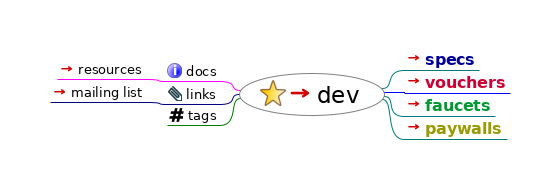
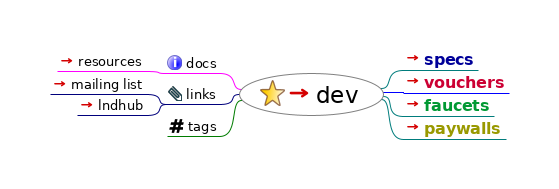
add lndhub

diff --git a/dev/index.html b/dev/index.html
@@ -23,17 +23,18 @@
                    };
                };
           
-          --></script></head><body><h1>dev</h1><div style="width:96%;  padding:2%;  margin-bottom:10px;  border: 0px;  text-align:center;  vertical-align:center;"><img src="index.html_files/image.png" style="margin-bottom:10px; &#9;border: 0px; &#9;text-align:center; &#9;vertical-align:center;" alt="Imagemap" usemap="#fm_imagemap" /></div><map name="fm_imagemap" id="fm_imagemap"><area shape="rect" href="../index.html" alt="dev" title="dev" coords="239,73,385,116" />
-<area shape="rect" href="#FMID_1100215200FM" alt="docs" title="docs" coords="165,63,220,81" />
-<area shape="rect" href="https://github.com/bcongdon/awesome-lightning-network#developer-resources" alt="resources" title="resources" coords="57,61,146,79" />
+          --></script></head><body><h1>dev</h1><div style="width:96%;  padding:2%;  margin-bottom:10px;  border: 0px;  text-align:center;  vertical-align:center;"><img src="index.html_files/image.png" style="margin-bottom:10px; &#9;border: 0px; &#9;text-align:center; &#9;vertical-align:center;" alt="Imagemap" usemap="#fm_imagemap" /></div><map name="fm_imagemap" id="fm_imagemap"><area shape="rect" href="../index.html" alt="dev" title="dev" coords="239,73,384,116" />
+<area shape="rect" href="#FMID_1100215200FM" alt="docs" title="docs" coords="165,55,220,73" />
+<area shape="rect" href="https://github.com/bcongdon/awesome-lightning-network#developer-resources" alt="resources" title="resources" coords="57,53,146,71" />
 <area shape="rect" href="#FMID_808607355FM" alt="links" title="links" coords="166,86,220,104" />
-<area shape="rect" href="https://lists.linuxfoundation.org/pipermail/lightning-dev/" alt="mailing list" title="mailing list" coords="50,84,147,102" />
-<area shape="rect" href="#FMID_466759422FM" alt="tags" title="tags" coords="167,107,220,125" />
-<area shape="rect" href="../spec/index.html" alt="specs" title="specs" coords="404,50,479,70" />
-<area shape="rect" href="vouchers.html" alt="vouchers" title="vouchers" coords="404,73,510,93" />
-<area shape="rect" href="faucets.html" alt="faucets" title="faucets" coords="404,96,495,116" />
-<area shape="rect" href="paywalls.html" alt="paywalls" title="paywalls" coords="404,119,507,139" />
+<area shape="rect" href="https://lists.linuxfoundation.org/pipermail/lightning-dev/" alt="mailing list" title="mailing list" coords="50,76,147,94" />
+<area shape="rect" href="http://lndhub.io" alt="lndhub" title="lndhub" coords="77,97,147,115" />
+<area shape="rect" href="#FMID_466759422FM" alt="tags" title="tags" coords="167,118,220,136" />
+<area shape="rect" href="../spec/index.html" alt="specs" title="specs" coords="403,50,478,70" />
+<area shape="rect" href="vouchers.html" alt="vouchers" title="vouchers" coords="403,73,509,93" />
+<area shape="rect" href="faucets.html" alt="faucets" title="faucets" coords="403,96,494,116" />
+<area shape="rect" href="paywalls.html" alt="paywalls" title="paywalls" coords="403,119,506,139" />
 </map>
 
-<div class="node"><img src="index.html_files/hide.png" class="hideshow" alt="hide" onClick="toggle(&quot;N65543&quot;)" id="imgN65543" /><img src="index.html_files/icons/bookmark.svg" alt="bookmark" /> <a id="FMID_1831615648FM" /><div class="nodecontent" style="color:#000000;font-size:150%;"><a href="../index.html">dev</a> <a href="../index.html"><img src="index.html_files/ilink.png" alt="User Link" style="border-width:0" /></a></div><div class="content" id="N65543"><div class="node"><img src="index.html_files/hide.png" class="hideshow" alt="hide" onClick="toggle(&quot;N66445&quot;)" id="imgN66445" /><img src="index.html_files/icons/info.svg" alt="info" /> <a id="FMID_1100215200FM" /><div class="nodecontent" style="color:#000000;font-size:83%;">docs</div><div class="content" id="N66445"><div class="node"><img src="index.html_files/leaf.png" class="hideshow" alt="leaf" /><a id="FMID_1911540836FM" /><div class="nodecontent" style="color:#000000;font-size:83%;"><a href="https://github.com/bcongdon/awesome-lightning-network#developer-resources">resources</a> <a href="https://github.com/bcongdon/awesome-lightning-network#developer-resources"><img src="index.html_files/ilink.png" alt="User Link" style="border-width:0" /></a></div></div></div></div><div class="node"><img src="index.html_files/hide.png" class="hideshow" alt="hide" onClick="toggle(&quot;N66524&quot;)" id="imgN66524" /><img src="index.html_files/icons/attach.svg" alt="attach" /> <a id="FMID_808607355FM" /><div class="nodecontent" style="color:#000000;font-size:83%;">links</div><div class="content" id="N66524"><div class="node"><img src="index.html_files/leaf.png" class="hideshow" alt="leaf" /><a id="FMID_307649319FM" /><div class="nodecontent" style="color:#000000;font-size:83%;"><a href="https://lists.linuxfoundation.org/pipermail/lightning-dev/">mailing list</a> <a href="https://lists.linuxfoundation.org/pipermail/lightning-dev/"><img src="index.html_files/ilink.png" alt="User Link" style="border-width:0" /></a></div></div></div></div><div class="node"><img src="index.html_files/leaf.png" class="hideshow" alt="leaf" /><img src="index.html_files/icons/hashtag.png" alt="hashtag" /> <a id="FMID_466759422FM" /><div class="nodecontent" style="color:#000000;font-size:83%;">tags</div></div><div class="node"><img src="index.html_files/leaf.png" class="hideshow" alt="leaf" /><a id="FMID_1858353829FM" /><div class="nodecontent" style="color:#000099;font-size:100%;font-weight:bold;"><a href="../spec/index.html">specs</a> <a href="../spec/index.html"><img src="index.html_files/ilink.png" alt="User Link" style="border-width:0" /></a></div></div><div class="node"><img src="index.html_files/leaf.png" class="hideshow" alt="leaf" /><a id="FMID_1943871369FM" /><div class="nodecontent" style="color:#cc0033;font-size:100%;font-weight:bold;"><a href="vouchers.html">vouchers</a> <a href="vouchers.html"><img src="index.html_files/ilink.png" alt="User Link" style="border-width:0" /></a></div></div><div class="node"><img src="index.html_files/leaf.png" class="hideshow" alt="leaf" /><a id="FMID_595852838FM" /><div class="nodecontent" style="color:#009933;font-size:100%;font-weight:bold;"><a href="faucets.html">faucets</a> <a href="faucets.html"><img src="index.html_files/ilink.png" alt="User Link" style="border-width:0" /></a></div></div><div class="node"><img src="index.html_files/leaf.png" class="hideshow" alt="leaf" /><a id="FMID_63598061FM" /><div class="nodecontent" style="color:#999900;font-size:100%;font-weight:bold;"><a href="paywalls.html">paywalls</a> <a href="paywalls.html"><img src="index.html_files/ilink.png" alt="User Link" style="border-width:0" /></a></div></div></div></div>
+<div class="node"><img src="index.html_files/hide.png" class="hideshow" alt="hide" onClick="toggle(&quot;N65543&quot;)" id="imgN65543" /><img src="index.html_files/icons/bookmark.svg" alt="bookmark" /> <a id="FMID_1831615648FM" /><div class="nodecontent" style="color:#000000;font-size:150%;"><a href="../index.html">dev</a> <a href="../index.html"><img src="index.html_files/ilink.png" alt="User Link" style="border-width:0" /></a></div><div class="content" id="N65543"><div class="node"><img src="index.html_files/hide.png" class="hideshow" alt="hide" onClick="toggle(&quot;N66445&quot;)" id="imgN66445" /><img src="index.html_files/icons/info.svg" alt="info" /> <a id="FMID_1100215200FM" /><div class="nodecontent" style="color:#000000;font-size:83%;">docs</div><div class="content" id="N66445"><div class="node"><img src="index.html_files/leaf.png" class="hideshow" alt="leaf" /><a id="FMID_1911540836FM" /><div class="nodecontent" style="color:#000000;font-size:83%;"><a href="https://github.com/bcongdon/awesome-lightning-network#developer-resources">resources</a> <a href="https://github.com/bcongdon/awesome-lightning-network#developer-resources"><img src="index.html_files/ilink.png" alt="User Link" style="border-width:0" /></a></div></div></div></div><div class="node"><img src="index.html_files/hide.png" class="hideshow" alt="hide" onClick="toggle(&quot;N66524&quot;)" id="imgN66524" /><img src="index.html_files/icons/attach.svg" alt="attach" /> <a id="FMID_808607355FM" /><div class="nodecontent" style="color:#000000;font-size:83%;">links</div><div class="content" id="N66524"><div class="node"><img src="index.html_files/leaf.png" class="hideshow" alt="leaf" /><a id="FMID_307649319FM" /><div class="nodecontent" style="color:#000000;font-size:83%;"><a href="https://lists.linuxfoundation.org/pipermail/lightning-dev/">mailing list</a> <a href="https://lists.linuxfoundation.org/pipermail/lightning-dev/"><img src="index.html_files/ilink.png" alt="User Link" style="border-width:0" /></a></div></div><div class="node"><img src="index.html_files/leaf.png" class="hideshow" alt="leaf" /><a id="FMID_1314545006FM" /><div class="nodecontent" style="color:#000000;font-size:83%;"><a href="http://lndhub.io">lndhub</a> <a href="http://lndhub.io"><img src="index.html_files/ilink.png" alt="User Link" style="border-width:0" /></a></div></div></div></div><div class="node"><img src="index.html_files/leaf.png" class="hideshow" alt="leaf" /><img src="index.html_files/icons/hashtag.png" alt="hashtag" /> <a id="FMID_466759422FM" /><div class="nodecontent" style="color:#000000;font-size:83%;">tags</div></div><div class="node"><img src="index.html_files/leaf.png" class="hideshow" alt="leaf" /><a id="FMID_1858353829FM" /><div class="nodecontent" style="color:#000099;font-size:100%;font-weight:bold;"><a href="../spec/index.html">specs</a> <a href="../spec/index.html"><img src="index.html_files/ilink.png" alt="User Link" style="border-width:0" /></a></div></div><div class="node"><img src="index.html_files/leaf.png" class="hideshow" alt="leaf" /><a id="FMID_1943871369FM" /><div class="nodecontent" style="color:#cc0033;font-size:100%;font-weight:bold;"><a href="vouchers.html">vouchers</a> <a href="vouchers.html"><img src="index.html_files/ilink.png" alt="User Link" style="border-width:0" /></a></div></div><div class="node"><img src="index.html_files/leaf.png" class="hideshow" alt="leaf" /><a id="FMID_595852838FM" /><div class="nodecontent" style="color:#009933;font-size:100%;font-weight:bold;"><a href="faucets.html">faucets</a> <a href="faucets.html"><img src="index.html_files/ilink.png" alt="User Link" style="border-width:0" /></a></div></div><div class="node"><img src="index.html_files/leaf.png" class="hideshow" alt="leaf" /><a id="FMID_63598061FM" /><div class="nodecontent" style="color:#999900;font-size:100%;font-weight:bold;"><a href="paywalls.html">paywalls</a> <a href="paywalls.html"><img src="index.html_files/ilink.png" alt="User Link" style="border-width:0" /></a></div></div></div></div>
 </body></html>

diff --git a/dev/index.mm b/dev/index.mm
@@ -74,6 +74,7 @@
 <icon BUILTIN="attach"/>
 <edge COLOR="#00007c"/>
 <node TEXT="mailing list" ID="ID_307649319" CREATED="1572859082436" MODIFIED="1572938866460" LINK="https://lists.linuxfoundation.org/pipermail/lightning-dev/"/>
+<node TEXT="lndhub" ID="ID_1314545006" CREATED="1572969714975" MODIFIED="1573023891849" LINK="http://lndhub.io"/>
 </node>
 <node TEXT="tags" POSITION="left" ID="ID_466759422" CREATED="1570968754383" MODIFIED="1571340239144">
 <icon BUILTIN="hashtag"/>
